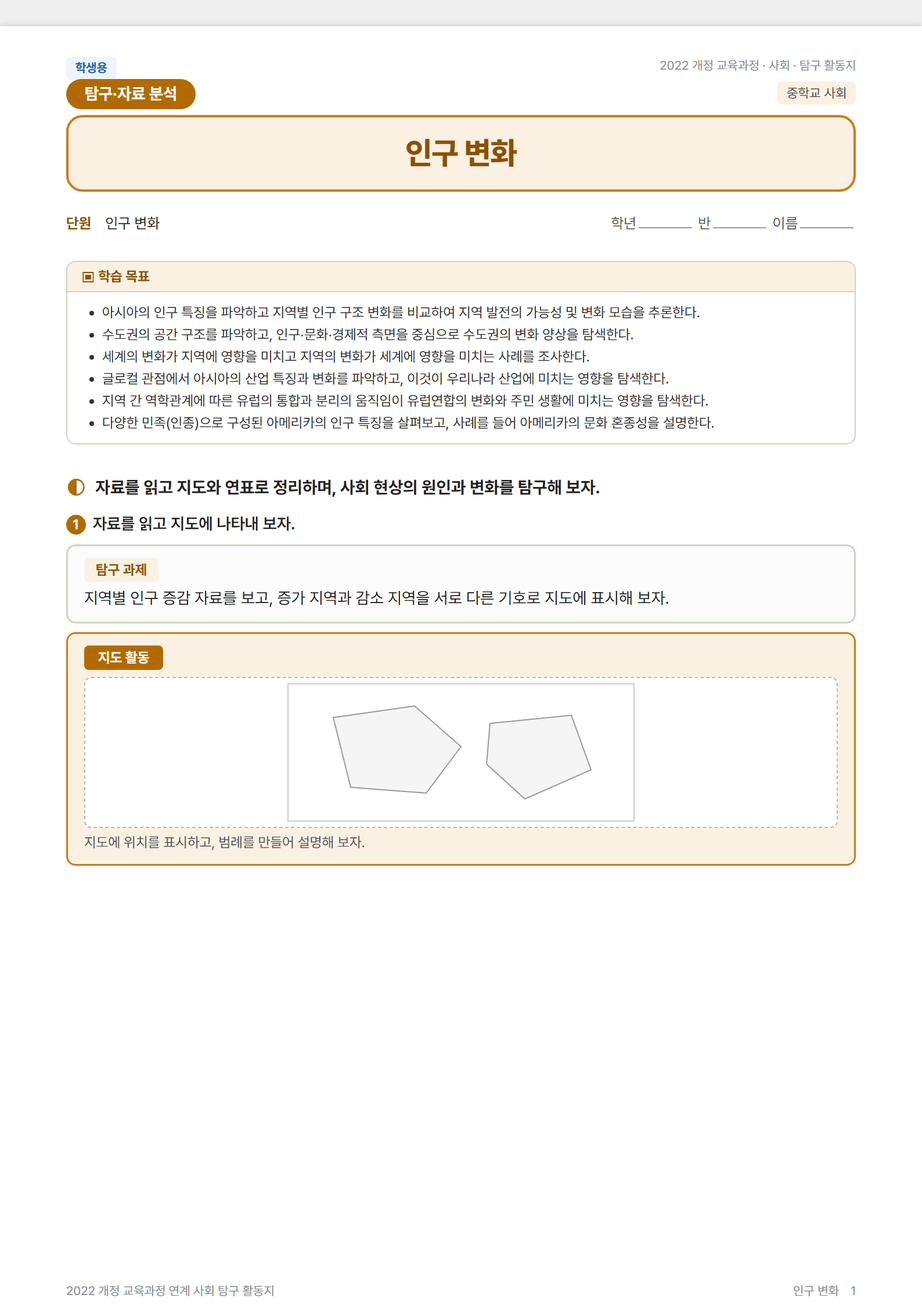
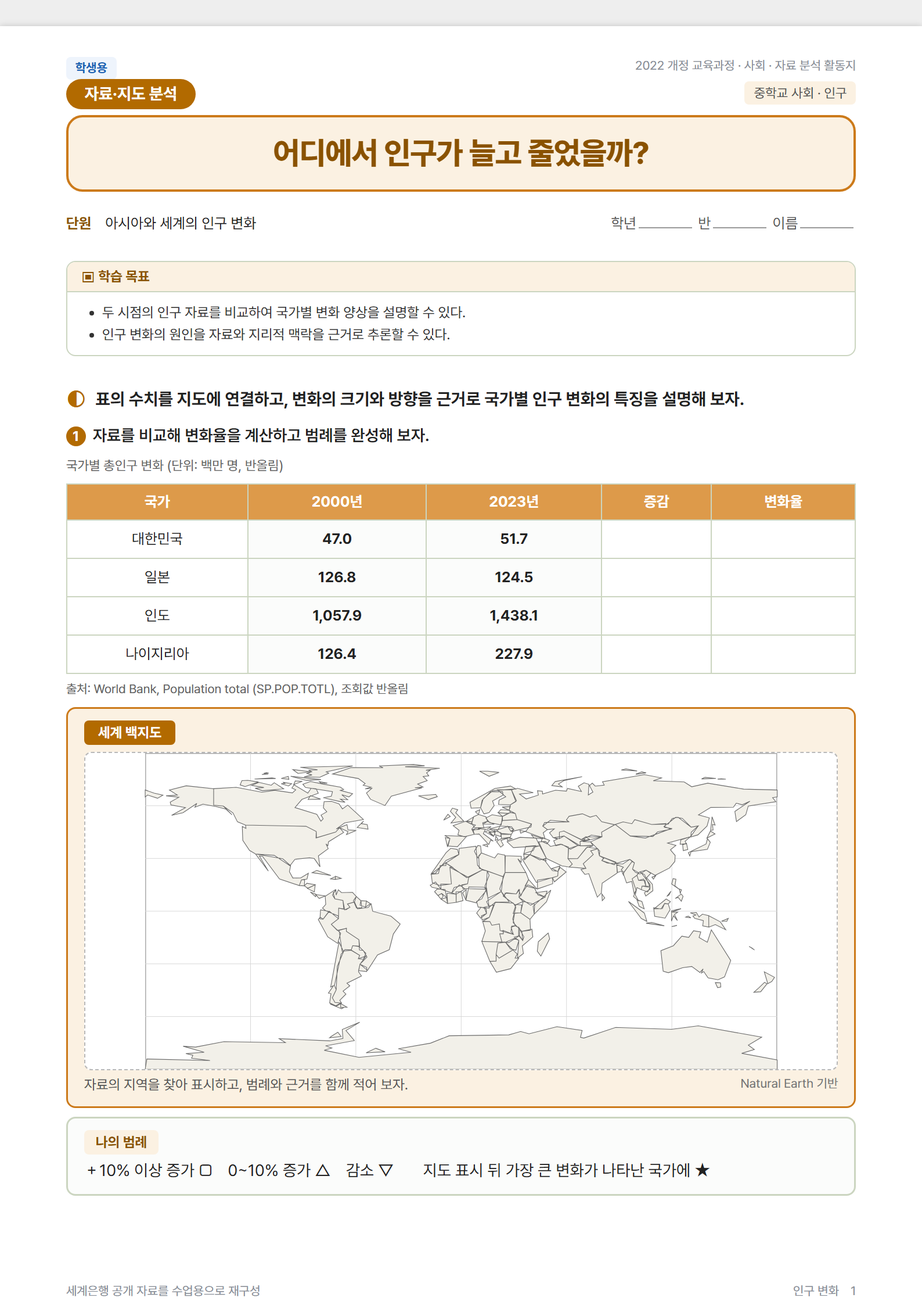
fix: README 활동지 예시와 사용자 진입 품질 개선

diff --git a/blocks/pack-social/map.html b/blocks/pack-social/map.html
@@ -1,11 +1,14 @@
 <div class="mapbox">
-    <span class="maphead">지도 활동</span>
+    <span class="maphead">세계 백지도</span>
     <div class="mapcanvas">
-      <svg width="300" height="120" viewBox="0 0 300 120" xmlns="http://www.w3.org/2000/svg">
-        <rect x="1" y="1" width="298" height="118" fill="none" stroke="#cccccc"/>
-        <path d="M40 30 L110 20 L150 55 L120 95 L55 90 Z" fill="#f5f5f5" stroke="#999999"/>
-        <path d="M175 35 L245 28 L262 75 L205 100 L172 70 Z" fill="#f5f5f5" stroke="#999999"/>
+      <svg viewBox="0 0 720 360" xmlns="http://www.w3.org/2000/svg" role="img" aria-label="국가 경계와 위경선이 표시된 세계 백지도">
+        <rect class="map-ocean" x="0.5" y="0.5" width="719" height="359"/>
+        <g class="map-graticule" aria-hidden="true">
+          <path d="M120 0V360M240 0V360M360 0V360M480 0V360M600 0V360"/>
+          <path d="M0 60H720M0 120H720M0 180H720M0 240H720M0 300H720"/>
+        </g>
+        <path class="map-land" fill-rule="evenodd" d="M427.8,181.9L438.4,189.4L439,201.8L429.1,203L419.2,193L420.8,182.3L427.8,181.9ZM342.7,124.7L342.6,128.2L336.1,128.1L334.1,137.3L325.9,138L342.7,124.7ZM114.3,82L105.1,78.3L100,68.2L89,60.4L78,59.4L78,40.6L103.7,39L133,44.6L147.7,42.4L167.7,45.4L171.5,41.9L167.1,39.8L169.6,36.2L185.3,45.6L189,40.2L194.8,40.7L197.2,45.8L178.6,52.8L170.6,62.1L195.5,69.7L200.2,77.6L202.8,74.9L200.3,70.7L206.9,66.9L203,62.4L203.8,55.4L212.3,55.1L220.8,57.9L224.7,63.6L230.8,59.3L248.6,75.7L227.2,79.5L217.8,86.4L229.9,81.5L231.1,87.5L240.4,88.2L229.3,92.9L231.1,89.4L221.5,85.1L217,90L195.1,96.6L194.9,89.3L183.2,83.4L114.3,82ZM200.4,34.4L198.3,32.6L207.5,34.3L200.4,34.4ZM183.7,31.2L165.8,26.5L200.3,30.2L183.7,31.2ZM137.5,23.7L140.3,24L132.9,24.5L137.5,23.7ZM138.1,22.4L140.7,22.8L134.9,23.2L138.1,22.4ZM248.8,77.4L246.4,80.4L253,81.5L253.9,86.7L241.5,84.8L248.8,77.4ZM192.2,49.8L199.8,52.5L185.6,52.9L188.2,48.5L192.2,49.8ZM202.5,35.3L222.4,38.9L226.1,41.6L222.4,42.6L236.3,46.3L232.2,50L224,47.5L230.7,53.2L222.4,52.5L227.7,56.1L222.2,55.3L202.9,50.9L212.1,49.1L213.4,43.9L182.6,39.2L179.6,35.5L188.3,32.4L202.5,35.3ZM171,31.7L179,32.3L169.2,35.9L171,31.7ZM116.9,31.1L129,33L113.8,38.2L108.1,36.3L110.2,31.4L116.9,31.1ZM144.4,28.3L148.6,29L124.6,29.6L144.4,28.3ZM147,33.8L157.8,40.8L133.4,42.9L125.3,40.1L135.2,39.3L121.2,36.9L129.6,33.4L143.6,36.7L147,33.8ZM159.1,34.6L156.9,33.3L166.9,34.9L163.3,37.5L155,35L159.1,34.6ZM163,26.6L163.7,30L155,28.9L163,26.6ZM168,18.8L188.4,21.3L174.2,23.3L168,18.8ZM176.8,16.2L236.3,14.7L206.2,21.4L209.2,22.9L198.9,27.6L181,27.1L190,24.9L184.1,23.3L189.8,21.3L186.1,19.5L196.3,19.1L176.8,16.2ZM114.3,82L183.2,83.4L194.9,89.3L194.6,96.6L217,90L221.5,85.1L226.1,90.4L208.9,101L208.1,105.6L206,103.5L208.5,108.9L197.3,117.1L199.2,129.6L192.6,120.1L187.2,119.2L170.6,121L164.9,128.3L147,116.5L125.7,114.9L118.8,110.8L111.2,99.4L110.6,83.6L114.8,85.8L114.3,82ZM78,40.6L78,59.4L89,60.4L98.9,70.4L91.8,63.8L80.3,60.9L65.8,58.2L56.6,61.7L58.8,57.4L43.1,68L30.1,70.9L45.9,62.2L29.3,59L28.5,55.9L38.4,50.4L23.8,48.7L36.6,47.8L27.6,42.2L46.8,37.3L78,40.6ZM534.7,81.6L519.9,90.2L520.5,95.3L508.4,93.4L497.3,98.7L477,88.8L471.9,90L471.9,97.4L465,96.4L460.6,90.8L466.1,86.3L458.2,87.2L452.9,83.2L461.5,76.6L482.7,78.4L479.9,76.1L482.9,72L498.1,69.2L506.9,73L513.8,71L520.1,78.3L534.7,81.6ZM471.9,97.4L471.9,90L477,88.8L496.5,98.7L501.9,95.5L506.1,98.3L495.4,100.8L495.7,105.7L477.3,94.5L471.9,97.4ZM642,185.2L655.3,192.2L661.4,201.2L649.5,195.3L642.1,198.2L642,185.2ZM662.6,191.7L656.6,191.5L664.3,188.3L662.6,191.7ZM642,185.2L642.1,198.2L635.2,196.8L635.9,190.8L626,188.2L624,185.6L627.4,184.4L621,181.9L628,181.6L630.9,186.7L634.9,183.4L642,185.2ZM595.8,171.7L598,178.2L592.3,188L580.4,185.9L579.3,176L587.6,177.6L591.7,171.4L595.8,171.7ZM618.7,185.6L621.7,187.7L615.8,186.8L618.7,185.6ZM605.9,178.2L610.5,177.2L600.1,181L606.7,181.2L603,183.8L606.3,190.7L601.9,185.3L599.6,191.3L599.7,179.7L605.9,178.2ZM602.7,197.1L605.8,196.2L599.8,197.6L602.7,197.1ZM577,192.8L591.4,196.7L570.7,193.7L577,192.8ZM568.7,182.2L571.6,191.7L565.2,188.4L550.6,169L568.7,182.2ZM222.7,285.3L229.9,289.4L222.7,289.7L222.7,285.3ZM244.7,240.4L243,248.9L246.4,253.8L229.8,262.1L233.1,265.1L225.4,271.1L228.7,274.5L221.7,281.5L223.7,284.7L216.2,284L213.2,278.6L217.6,269.6L215.7,264.5L223.2,229L227.5,223.7L234.3,224.1L244.4,230.3L242.8,234.2L251.7,231.1L244.7,240.4ZM222.7,285.3L222.7,289.7L226.1,289.8L223.7,291.2L210.7,285.7L217.8,288.1L222.7,285.3ZM220.8,215.2L226,226L218.9,242.7L217.6,269.6L213.2,278.6L216.2,284L222.9,284.6L217.1,287.7L210.1,284.5L211.7,273.9L208.7,273.3L214.6,264.8L211.3,266.4L220.8,215.2ZM418.7,189L421.5,196.7L417.5,197.1L416.7,203.6L419.4,206.5L404.3,202.2L403.5,194.6L394.9,196.1L392.7,191.8L384.4,191.6L392,187.1L398.9,169.9L419.4,170.8L422.3,175.6L418.7,189ZM443.2,183.4L442,174.4L462.2,156L457.2,169.3L443.2,183.4ZM438.4,189.4L427.8,181.9L430.6,169L443.7,172.2L443.2,183.4L438.4,189.4ZM409.1,163.5L403.9,154.8L410,136L433.7,136L436.8,144L427.9,162.6L425.5,155.5L422.7,160.4L410.1,159.5L409.1,163.5ZM407.7,140.8L405.7,157.7L390.6,165.2L387.1,151.3L391.8,139.2L389.7,134.3L407.7,140.8ZM216.6,140.6L216.6,143.9L211.1,143.3L216.6,140.6ZM216.6,143.9L216.8,140.2L223.4,142.8L216.6,143.9ZM458.2,87.2L453.4,90.8L455.6,97.7L433.4,89.5L440.1,80.8L423.6,75.8L421.7,68.9L414.6,65.1L416.1,59L423,54.3L417.2,41.9L424.3,40.2L442.1,45.1L426.4,46.7L434,52.3L447.9,47.9L446.9,42.9L452.5,43.5L452.7,46.7L467.4,42.3L479.9,43.4L481.1,40.3L497,43.8L493.4,37.9L499.9,33.9L505.6,35.6L504.8,47.7L510.1,44.5L506.2,37.1L509.3,34.3L512.7,37.7L523,36.5L521,32.7L568.7,24.6L588.3,28.3L578.8,31.6L614,32.9L622.6,38.4L640.9,34.3L681.9,41.1L720,42.1L720,50L714.8,50.8L718.5,55.4L687.1,60.3L684.2,70.3L673.6,78L671.8,66.5L688.9,54.9L680.2,58.9L673.4,57.1L670.1,61.7L644.4,61.9L630.3,70.5L642.7,73.8L640.1,83.1L629.7,93.2L621.6,95.6L622.1,90.1L630.1,83L622,84.4L607.1,73.1L600.4,74.5L595.8,81L577,81.4L557.7,75.9L554.5,80.5L544.5,78.4L534.7,81.6L520.1,78.3L513.8,71L506.9,73L498.1,69.2L482.9,72L479.9,76.1L482.7,78.4L455.1,79.1L452.9,83.2L458.2,87.2ZM547.6,18L560.4,20.4L542.4,19.3L547.6,18ZM565.7,21.4L570.7,22.6L558.9,24.2L565.7,21.4ZM637.7,27.7L650.2,28.9L633.9,29.5L637.7,27.7ZM656.4,29.3L661.5,29.8L652.2,29.7L656.4,29.3ZM467,32.5L497.7,26.9L477,31.4L470.8,35.3L475.1,38.6L463.2,37.1L467,32.5ZM645.8,72.6L649.3,82L646.3,81.4L647,87.7L644.2,88.1L645.8,72.6ZM10.1,45.6L20.2,48L14.1,51.5L2.6,47.8L0,50L0,42.1L10.1,45.6ZM426.9,88.1L433.1,89.1L427.8,91.3L426.9,88.1ZM390.3,20.7L403.1,22.1L391.8,26.5L380.9,20.7L390.3,20.7ZM422.2,40.9L396,42.9L385.2,51.9L382.1,62.3L371.3,62.8L370,56.1L398.4,40.4L416.3,37.6L422.2,40.9ZM266.5,14.7L305.8,13L318.3,14.5L296.2,15.6L335.6,17.4L319.9,19.6L324.5,19.7L320.6,22.5L323.1,26L316.6,26.7L321.3,31.4L310.4,35.3L316.5,38.7L307.3,39.5L315.3,39.7L280.4,49.1L273.2,59.8L256.7,52.7L252.1,45.6L258.3,40.1L250.6,40.8L257.2,38.9L248.3,36.7L250.6,34.8L242.8,29L213.4,23.9L234.7,16.5L271,16.7L266.5,14.7ZM392.7,237.2L399.8,236.9L399.8,229.5L403.2,233.5L418.9,224.2L423.9,228.7L421.4,233.5L425.7,233.5L416.4,245.5L400.1,249.6L392.7,237.2ZM125.7,114.9L156.7,120.4L165.7,128.3L164.3,135.1L168.2,142.3L177.2,142.2L185.9,136.9L184.3,143.5L178,144.4L175.5,150.9L153,143.4L133.7,117.7L130.1,117.2L140.3,134.4L125.7,114.9ZM244.7,240.4L252.4,244.1L252.4,248.8L243.1,247.8L244.7,240.4ZM253.3,247.5L244.7,240.4L252.7,232.2L248.4,224.7L244.1,224.2L243.5,212.6L229.2,203.1L229.3,199.5L218.9,202L212,195L220.2,188.6L220.4,176.6L228.9,178.4L233.3,175.6L230.4,171.9L238.5,169.6L241.9,177.4L254.1,175.8L257.4,171.6L259.2,180.2L280,185.7L290.5,194.7L282.7,206.1L278.1,223.9L264.7,229.8L253.3,247.5ZM220.9,201.9L229.3,199.5L229.2,203.1L243.5,212.6L244.3,219.9L236.4,219.3L234.6,224.5L224.3,225.7L220.9,201.9ZM220.2,188.6L212,195L222.7,205.1L219.3,216.7L208,209.3L197.2,189.5L199.4,186.8L202.7,189.1L209.8,180.1L220.2,188.6ZM226.2,177.5L220.4,176.6L220.2,188.6L219.9,185.5L205.2,179.2L202,176.6L205.7,172.3L205.1,163L217.2,155.2L213.4,161.7L216.1,166L225.3,167.8L226.2,177.5ZM205.3,162.7L198.2,165.6L194.1,161L205.3,162.7ZM194.9,160.9L194.1,163.5L188.1,158.2L194.9,160.9ZM192.7,158.1L184.7,154.2L193.7,150L192.7,158.1ZM193.7,150L185.4,154L181.3,151.2L184.2,148.3L193.7,150ZM175.5,150.9L178,144.4L181.7,144.4L181.3,151.2L175.5,150.9ZM238.5,169.6L230.4,171.9L233.3,175.6L227.3,178.6L225.3,167.8L216.1,166L214.2,159.1L217.3,156.4L217.5,161.7L220.1,155.7L223.6,158.9L236.2,158.6L240.5,163.3L238.5,169.6ZM246.9,176.2L240.7,176.4L237.2,168.1L240.5,163.3L245.7,168.1L246.9,176.2ZM251,175.4L244.8,173.3L245.7,168.1L252.1,168.5L251,175.4ZM256.7,171.7L251,175.4L252.1,168.5L256.7,171.7ZM372.4,81.1L376.2,82L372.1,86.5L374.9,92.6L363.7,95.3L356.2,93.2L357.6,88L350.8,82.6L365,77.7L372.4,81.1ZM209.3,180.3L202.7,189.1L199.1,188.9L199.8,178.5L209.3,180.3ZM195.5,133.6L211.6,139.4L190.1,136.2L195.5,133.6ZM422.4,224.5L416,223L410.5,215.5L420.5,211L425.7,213.4L422.4,224.5ZM418.9,224.2L403.2,233.5L399.8,229.5L401.8,216.5L410.5,215.5L418.9,224.2ZM399.8,229.5L399.8,236.9L392.7,237.2L383.5,214.6L410.2,215.2L401.8,216.5L399.8,229.5ZM326.6,152.8L324.7,150.5L330.8,146.8L337,155.1L326.6,152.8ZM337,155.1L336.7,149.2L348.9,149L347.1,130.1L368.5,141.7L367.3,148.9L352,153.1L349.2,159.3L337,155.1ZM325.9,138L334.1,137.3L336.1,128.1L342.6,128.2L342.6,125.2L350.2,130.1L347.1,130.1L348.9,149L335.7,150.8L327.1,147.7L325.9,138ZM365.4,167.5L361.5,159.1L365.7,155.5L365.4,167.5ZM389.7,134.3L388.4,155L362,154.3L360.7,150.1L367.3,148.9L368.5,141.7L384,133.1L389.7,134.3ZM365.4,167.5L368.7,152.5L386.2,152.8L389.2,155.8L377,170.5L365.4,167.5ZM389,154.3L391.9,176.5L379.3,175.4L377.5,169L383.5,166L389,154.3ZM360,158L362.1,168.1L354.3,170L354.1,158.1L360,158ZM343.9,159.6L354.3,160.7L354.3,170L344.6,171.3L343.9,159.6ZM332.6,154.8L341.7,155.4L343.4,164.6L337.8,159.9L333.5,162.2L329.7,157.9L332.6,154.8ZM343.1,164.6L344.6,171.3L337.1,166.4L343.1,164.6ZM333.5,162.2L337.8,159.9L339.5,163.2L337.1,166.4L333.5,162.2ZM349.2,159.3L357.9,150.1L364.4,154.7L354.3,160.7L349.2,159.3ZM414.7,169.5L398.9,169.9L392,175.5L388.9,169.1L405.7,157.7L414.7,169.5ZM396.9,173L392,187.1L383.8,190.1L383,185.5L388.9,182.7L386.2,175.5L396.9,173ZM382.6,175.5L388.6,177.6L388.9,182.7L382.2,188L377.6,182.2L382.6,175.5ZM421.5,196.7L426.5,199.4L426.4,207.9L414.1,215.9L406.4,215L403.9,205.8L408,205.8L407.8,201.9L419.4,206.5L416.9,198.3L421.5,196.7ZM425.5,198.5L431.4,209.2L430.1,213.6L425.4,207.4L425.5,198.5ZM429.1,203L440.6,200.6L441.6,209.4L429.6,219.6L430.9,228.2L424.1,233.5L425.7,213.4L420.4,209.6L426.4,207.9L430.1,213.6L429.1,203ZM384.6,192.2L392.7,191.8L394.9,196.1L403.5,194.6L404.3,202.2L408,202.5L408,205.8L403.9,205.8L406.4,215L383.5,214.6L387.5,202.6L384.6,192.2ZM459.1,204.9L460.8,211.4L450.8,231.2L446.7,225.6L447.9,214.8L459.1,204.9ZM379,119.4L375,111.8L379,105.3L382.1,105.8L383,113.7L379,119.4ZM342.6,125.2L357.4,115.5L357.6,108.6L376.8,106.1L378.6,127.8L384,133.1L366.3,141.9L342.6,125.2ZM431.1,115.2L438.4,115.7L432.1,121.6L431.1,115.2ZM463.2,131.5L472.5,128.6L470,135L463.2,131.5ZM455.9,120L456.8,122.9L453.1,121.8L455.9,120ZM438.4,115.7L442.6,107.3L449.5,105.7L457.1,120.1L449.4,121.6L438.4,115.7ZM470.4,134.6L472.8,130.2L479.6,135.4L466.2,146.7L464,142L470,140L470.4,134.6ZM565.2,155.6L566,151.5L575.2,152.9L572.5,158.1L565.2,155.6ZM570.4,151.5L566,151.5L565.2,155.6L560.2,153.2L558.4,161.5L562.3,168.6L556.3,163.3L559.2,156.2L554.8,143.1L560.2,139.2L562.1,145L569.4,145.1L570.4,151.5ZM574.8,151.6L570.4,151.5L567.9,143.5L562.1,145L560.2,139.2L563.3,135.4L568.9,138.5L574.8,151.6ZM560.2,139.2L554.8,143.1L559.2,156.2L557.1,160.1L554.3,146.1L548.4,147.9L544.6,137L554.7,123.5L557.4,125L555.2,132.2L562.3,136.3L560.2,139.2ZM568.7,159L575,155.3L575.1,149.6L564.3,135.1L570.7,133.3L576.1,136.9L571.3,141.9L577.8,149.4L578.4,156.7L570.3,162.8L568.7,159ZM621.6,95.6L621.6,95.6L621.6,95.6L621.6,95.6ZM621.3,95.2L615.1,100.5L616.4,103.3L609.4,103.8L610.2,98.9L621.3,95.2ZM612.3,104.5L616.7,102.8L618.2,109.8L613,111.2L612.3,104.5ZM535.5,81.4L544.5,78.4L554.5,80.5L557.7,75.9L577,81.4L593.4,80.2L591.5,84.5L599.5,85.9L569.9,96.8L552.7,94.5L535.5,81.4ZM554.7,123.5L545.3,135.9L542.3,133L544.8,130L537.1,127.1L537.8,136.6L520.6,148.2L519.7,159.3L515.1,164.1L505.3,137.3L500.9,138.2L496.4,132.6L502.1,131.3L499,126.1L510.5,115.5L507.5,111.4L515.7,109L517.5,117L522.2,119.6L520.2,122.4L526.6,125.3L544.1,126.3L552.2,121.1L554.7,123.5ZM545.3,135.9L544.7,138.7L542.8,134.5L538.1,135.9L537.1,127.1L544.8,130L542.3,133L545.3,135.9ZM536.2,124.2L534.5,127.2L520.2,122.4L523.1,119.2L536.2,124.2ZM515.7,109L507.5,111.4L510.5,115.5L499,126.1L502.1,131.3L483,129.8L486.6,126.5L481.7,120.3L492.7,120.2L503.7,107L515.7,109ZM493,105.3L510.3,105.7L502.5,107.9L492.7,120.2L481.7,120.3L482.4,108.7L493,105.3ZM495.7,105.7L495.4,100.8L501.3,98.1L498.9,100.9L507.4,101.1L510,105.2L495.7,105.7ZM501.9,95.5L520.5,95.3L498.9,100.9L506.1,98.3L501.9,95.5ZM465,96.4L477.3,94.5L493,105.3L484.5,109.5L474.7,103.9L467.8,105.6L465.4,99.9L469.5,98.1L465,96.4ZM457.1,120.1L448.2,101.1L456.1,100.8L461.7,106.3L473.2,103.8L482.2,107L481.7,120.3L486.6,126.5L483,129.8L474.8,128.5L457.1,120.1ZM431.4,114.6L433.5,106.4L444.7,105.5L442,111.2L431.4,114.6ZM382.1,62.3L383.9,53.7L393.5,44L407.1,44.1L407.8,48L395.7,54.5L397.6,59.8L391.8,67.8L385.9,69.3L382.1,62.3ZM416.4,67.7L421.7,68.9L423.6,75.8L407.1,76.8L407,72.2L416.4,67.7ZM423.6,75.8L440.1,80.8L439.5,84.2L417.4,89.4L420,87.2L417.3,83.8L404.2,83.2L407.1,76.8L423.6,75.8ZM407,72.2L405.6,81.9L392.4,79.2L388.1,74L395.2,70.3L407,72.2ZM394,83.8L389.3,87.1L379,85.8L394,83.8ZM404.2,83.2L402,87.4L392.4,86.3L404.2,83.2ZM413.2,83.6L420,87.2L416.5,89L413.2,83.6ZM416.5,89L419.2,89.4L417.1,92.6L405.9,92.4L400.4,87.7L413.2,83.6L416.5,89ZM413,68.8L407,72.2L402.1,67.9L413,68.8ZM414.6,65.1L416.4,67.7L413,68.8L402.1,67.9L405,64.5L414.6,65.1ZM416,61L414.6,65.1L406.7,61.6L416,61ZM388.2,72.5L390,77.8L384.5,79.5L385.9,85.1L374.9,84.8L372.1,79.7L374.2,72.6L379.8,70L388.2,72.5ZM405.3,91.5L417.1,92.6L416,96L405.9,97.3L405.3,91.5ZM405.9,97.3L413.2,96.9L405.3,99.5L408.1,104.7L405,107.2L400.3,100.8L405.9,97.3ZM449.5,105.7L419.4,107.7L412.3,101.1L427,96L445.2,96.8L449.5,105.7ZM412.2,96.3L418,97.4L412.7,99.7L412.2,96.3ZM402,98.3L398.8,99.5L399.5,94.6L402,98.3ZM393.1,87L398.8,89.5L391.5,90.4L396.9,95L387.3,89.7L393.1,87ZM379.2,84.9L380.7,87L372,87.5L379.2,84.9ZM372.3,78.4L371.3,80.9L365,77.7L372.3,78.4ZM373.8,73L372.3,78.4L366.6,77.3L373.8,73ZM341.9,96.2L347.2,97.2L344.3,106.3L341.9,96.2ZM345.1,105.8L347.2,97.2L341.2,93.9L366,95.1L355.7,106.7L345.1,105.8ZM347.6,72.3L340,76.4L344.9,69.7L347.6,72.3ZM691.6,222.2L694.2,224.3L688.1,220.2L691.6,222.2ZM713.8,260.1L709.3,262.6L705.3,249.1L717,255.4L713.8,260.1ZM699.3,267.1L705.6,261L708.5,262.7L701.2,271.8L693.4,272.4L699.3,267.1ZM655.4,261.6L655.8,266.4L652.1,267.1L649.5,261.4L655.4,261.6ZM612.3,244.4L596,250.1L590.1,248.4L587.5,225L601.7,219.4L611.4,208.5L619.2,209.9L624.7,202.3L633,203.7L631,210L640.4,215.4L645,201.3L667.1,236.2L660,254.9L652.6,258.1L641.3,256L636.4,248.8L633.7,250.5L635.6,245.8L632,249.8L622.7,243L612.3,244.4ZM523.6,165L520.7,168.1L520.3,160.4L523.6,165ZM579,143.6L577.3,141.3L581.6,139.8L579,143.6ZM520.5,95.3L519.9,90.2L535.5,81.4L552.7,94.5L578.5,95L583.7,89.8L599.3,86.6L591,83.7L604.5,73.1L611.9,74.4L622,84.4L630.1,83L621.3,95.2L595.1,102.5L604.7,105.1L598.3,110.2L603.8,116.6L603.4,123.5L597.3,130.9L580.9,139.3L570.7,133.3L563.6,137.7L558.5,135.8L555.2,132.2L557.4,125L552.2,121.1L537.6,125.4L517.5,117L517.8,111.4L507.4,101.1L520.5,95.3ZM380.9,86.2L387.6,87L385.2,91.8L396.6,100.4L393.7,99.1L391.4,104.2L380.4,92.2L374.9,92.6L373.7,88L380.9,86.2ZM389.5,103.7L390.2,106.8L384.9,104.8L389.5,103.7ZM379.8,70L376.2,66.9L381.2,64.5L379.8,70ZM353.8,73.2L347.7,66.4L350,62.7L356.1,64.6L353.8,68.1L362.9,77.4L348.4,79.7L353.8,73.2ZM331,47.1L332.8,49.7L322.7,53L311.3,48.8L331,47.1ZM452.8,96.3L460.8,99.5L457.8,103.4L451.2,100.2L452.8,96.3ZM439.9,93.1L453.3,97.6L443.1,96.9L439.9,93.1ZM612.8,163.2L610.8,168.8L607.2,164.3L603.8,165.6L610.8,160.5L612.8,163.2ZM597,161.4L594.3,163.3L599,157.3L597,161.4ZM604.7,143.6L603.5,151.3L608.2,154.9L599.8,149.2L601.4,143L604.7,143.6ZM611,155.7L609.6,159.7L608.5,154.9L611,155.7ZM560.2,167.1L565.9,169L568.5,177.4L562.8,174.5L560.2,167.1ZM595.8,171.7L591.7,171.4L589.2,177.1L579.7,177.3L593.5,166.2L598.4,169.2L595.8,171.7ZM417.2,41.9L422.3,55.3L416.1,59L402.6,58.6L403.1,53.6L410.8,49.8L401.3,41.8L417.2,41.9ZM390,77.8L397.7,81L385,80.9L390,77.8ZM432.9,151.2L436.8,144L446.2,154.6L432.9,151.2ZM643.8,101.6L640.5,109.7L622,112.2L620.4,117.2L618.8,113.4L638.9,103.6L640.6,97.6L643.8,101.6ZM649.2,92.1L639.9,96.9L643.9,88.9L649.2,92.1ZM243.7,220.4L251.4,228L248.6,234.8L242.8,234.2L244.4,230.3L234.6,224.5L236.4,219.3L243.7,220.4ZM464,142L464.3,148.8L447,154.7L446.8,144.8L464,142ZM429.9,121.3L438.4,115.7L454.9,122L464,134L470.4,134.6L470,140L445.6,147.3L429.9,121.3ZM262.7,336.1L273.3,340.1L251.7,341.3L262.7,336.1ZM212.2,322.5L219.5,317.8L223.3,322.8L210.1,324.1L212.2,322.5ZM720,349.4L720,360L0,360L1.9,348.3L73.8,350.1L52.8,347.4L54.3,344.1L46.3,342.2L67.2,340.7L43.3,333.8L57.3,334.8L89.6,328.6L159.8,329.7L152.6,325.2L210.2,327.7L225.3,325L224.5,314.7L244.4,306.5L228.7,315.9L238.3,327.4L205.5,333.4L212.7,335.8L204,338.4L243.6,346.4L302.9,340.7L288.4,336.7L325,330.3L346.3,321.9L414.2,320.9L427.7,317L437.3,319.6L469.1,311.6L497.8,315.9L495.9,323.7L499.7,324.5L536,312.4L599.7,314.5L630.1,310.6L702.4,323.4L687.1,332.5L694,337.5L679.6,341.9L720,349.4ZM355.7,109.7L357.4,115.5L342.7,122.3L330.5,137L326,137.2L342.7,113.5L348.1,108.5L355.7,109.7ZM433.7,136L410,136L410.3,116.9L428.5,117.6L428.3,124.4L424.6,120.5L433.7,136ZM410,136L407.7,140.8L380.6,131.2L379.9,117.2L383,113.7L398.2,119.5L401.7,114.6L409.8,116.2L410,136ZM455.6,164L439.1,173.2L425.9,164.4L435.8,150.1L443.2,153.1L447.4,161.6L455.6,164ZM457.9,157.2L455.6,164L445.1,158.9L457.9,157.2ZM427.8,181.9L419.2,182.7L422.5,172.4L429,172.9L427.8,181.9ZM397.1,94.7L391.9,89.5L398.7,90.3L397.1,94.7ZM397.7,88.2L405.4,90.8L405.1,95.1L398.4,93L397.7,88.2ZM421.7,173L407.8,162.8L411.6,159.2L422.7,160.4L426.4,155.6L425.9,164.4L430.6,169L421.7,173Z"/>
       </svg>
     </div>
-    <div class="mapcap">지도에 위치를 표시하고, 범례를 만들어 설명해 보자.</div>
+    <div class="mapcap">자료의 지역을 찾아 표시하고, 범례와 근거를 함께 적어 보자. <span class="map-source">Natural Earth 기반</span></div>
   </div>

diff --git a/test/unit/assemble.test.js b/test/unit/assemble.test.js
@@ -61,3 +61,21 @@ test('성취기준 원문은 커리큘럼 포트로 주입된다(CSV/MCP 조회,
   assert.match(html, /원문\(\[12독작01-01\]\)/, '표준 라벨이 주입된 원문을 사용');
   assert.match(html, /data-mode="MODE_TOKEN"/, '조립 산출은 MODE_TOKEN 을 유지(2벌 치환 전)');
 });
+
+test('파라메트릭 시각 조직자에 저작 라벨이 반영된다', async () => {
+  const repo = new FsBlockRepository({ root: ROOT });
+  const asm = new AssembleWorksheet({ blockRepository: repo, curriculum: mockCurriculum });
+  const { html } = await asm.execute({
+    subject: 'science',
+    theme: 'sci',
+    pages: [[{
+      type: 'venn',
+      params: { circles: 3 },
+      labels: { a: '고체', b: '액체', c: '기체', common: '입자로 이루어진 물질' },
+    }]],
+  });
+
+  for (const label of ['고체', '액체', '기체', '입자로 이루어진 물질']) {
+    assert.match(html, new RegExp(label), `조직자 라벨 반영: ${label}`);
+  }
+});

diff --git a/assets/blocks.css b/assets/blocks.css
@@ -299,7 +299,12 @@ h2.sec .n { background: var(--c); color: #fff; width: 20px; height: 20px; border
   font-size: 9pt; padding: 2px 12px; border-radius: 4px; margin-bottom: 6px; }
 .mapbox .mapcanvas { background: #fff; border: 1px dashed #b9b9b9; border-radius: 6px;
   min-height: 128px; display: flex; align-items: center; justify-content: center; }
+.mapbox .mapcanvas svg { display: block; width: 100%; height: auto; max-height: 72mm; }
+.mapbox .map-ocean { fill: #fff; stroke: #aaa; }
+.mapbox .map-graticule { fill: none; stroke: #d7d7d7; stroke-width: .65; }
+.mapbox .map-land { fill: #f2f0e9; stroke: #686868; stroke-width: .55; vector-effect: non-scaling-stroke; }
 .mapbox .mapcap { font-size: 9pt; color: #555; margin-top: 4px; }
+.mapbox .map-source { float: right; color: #777; font-size: 8pt; }
 
 /* ===== 사회 특수 블록 ② 연표(타임라인) ===== */
 .timeline { margin-top: 3mm; border-top: 3px solid var(--c); padding-top: 4px; }

diff --git a/src/usecases/AssembleWorksheet.js b/src/usecases/AssembleWorksheet.js
@@ -104,7 +104,9 @@ export class AssembleWorksheet {
     let html;
     // 파라메트릭 조직자: entry.params 가 있으면 엔진이 개수대로 SVG 를 생성한다(좌표는 엔진 계산).
     // params 없으면 정적 블록(entry.file)을 쓴다 = 기존 산출 그대로(하위호환).
-    if (entry.params && ORGANIZER_GENERATORS[entry.type]) html = ORGANIZER_GENERATORS[entry.type](entry.params);
+    if (entry.params && ORGANIZER_GENERATORS[entry.type]) {
+      html = ORGANIZER_GENERATORS[entry.type](entry.params, entry.labels);
+    }
     else if (typeof entry.html === 'string') html = entry.html; // 인라인 블록(템플릿 슬롯 치환 결과)
     else if (entry.file) html = await this.repo.loadBlockHtml(entry.file);
     else throw new Error(`블록 엔트리에 file/html/gen 이 없습니다: ${JSON.stringify(entry)}`);

diff --git a/README.en.md b/README.en.md
@@ -15,15 +15,19 @@ worksheet-grab is a **local worksheet authoring, editing, and export tool for Ko
 
 > This README explains the GitHub project and installation. In the teacher distribution bundle, `CLAUDE.md` and `AGENTS.md` are the actual entry points for AI harnesses.
 
-## Clone the repository first
+## Clone the repository and create a teacher bundle
 
-The current supported installation path is to clone the GitHub repository to your computer and open that folder in an AI harness. Opening the GitHub page alone does not provide the local engine, skills, or curriculum data required to run the workflow.
+Opening the GitHub page alone does not provide the local engine, skills, or curriculum data required to run the workflow. Clone the repository, then create a teacher-facing folder with development files removed.
 
 ```bash
 git clone https://github.com/pblsketch/worksheet-grab worksheet-grab
 cd worksheet-grab
+node scripts/build-user-bundle.mjs dist/worksheet-grab-user
+cd dist/worksheet-grab-user
 node bin/worksheet-grab.js help
 ```
+
+The cloned repository root is a source-development workspace and includes tests, development documentation, and development-only AI configuration. Teachers should open only `dist/worksheet-grab-user` in an AI harness. That folder contains the runtime engine and teacher-facing skills. Developers who intend to modify the source can work from the repository root.
 
 ## Requirements
 
@@ -46,7 +50,7 @@ No `npm install` or build step is required.
 
 ## Three-minute start for teachers
 
-### 1. Open the cloned folder in your AI harness
+### 1. Open the generated teacher folder in your AI harness
 
 - Claude Code reads `CLAUDE.md` and `.claude/skills/`.
 - Codex CLI and Antigravity use `AGENTS.md` as their entry point.
@@ -80,13 +84,20 @@ The AI and teacher author the educational content. The engine assembles it withi
 
 ## Generated examples
 
-These are not mockups. Each image is the first page of a student worksheet produced by the current beta engine through **curriculum lookup → worksheet assembly → student/teacher split → answer-leak validation → Chrome rendering**. The corresponding teacher version uses the same structure with example answers added.
+These are not mockups. Each image is the first page of a student worksheet produced by the current beta engine through **curriculum lookup → worksheet assembly → student/teacher split → answer-leak validation → Chrome rendering**. The science inquiry continues for three pages; the social data-analysis and graphic-organizer worksheets each continue for two pages.
 
-| Science inquiry · Photosynthesis | Social data analysis · Population change |
+| Science inquiry · Photosynthesis (3 pages) | Social data analysis · Population change (2 pages) |
 |---|---|
 | ![Science inquiry worksheet for designing a photosynthesis experiment](docs/images/readme/science-inquiry.png) | ![Social studies data-analysis worksheet for mapping population change](docs/images/readme/social-data-map.png) |
-| **Korean reading and discussion · Claims and evidence** | **English vocabulary and communication · Expressing emotions** |
-| ![Korean language arts worksheet for reading and discussing claims and evidence](docs/images/readme/korean-argument-reading.png) | ![English worksheet for organizing vocabulary about emotions](docs/images/readme/english-emotion-vocab.png) |
+
+- Science: inquiry question → hypothesis → variable design → data table and graph → interpretation
+- Social studies: real world map and public population data → rate calculation → map legend → causal fishbone
+
+### Graphic organizer · States of matter (2 pages)
+
+![Graphic-organizer worksheet comparing solids liquids and gases in a three-circle Venn diagram](docs/images/readme/visual-organizer-states.png)
+
+The three-circle Venn diagram on page one is followed by a six-node concept map and a four-step flowchart on page two. The engine owns shape geometry and coordinates; the teacher or AI harness supplies topic labels and activity instructions.
 
 ## AI harness status
 

diff --git a/README.md b/README.md
@@ -16,15 +16,19 @@ Claude Code, Codex CLI 같은 AI 하네스가 교사의 요청을 해석하고, 
 
 > 이 README는 GitHub에서 설치하고 기능을 파악하기 위한 문서입니다. 교사용 배포 번들에서는 `CLAUDE.md`와 `AGENTS.md`가 AI 하네스의 실제 진입 문서입니다.
 
-## 먼저 저장소를 클론하세요
+## 먼저 저장소를 클론하고 교사용 폴더를 만드세요
 
-현재 공식 사용 경로는 GitHub 저장소를 로컬 컴퓨터에 클론한 뒤, 그 폴더를 AI 하네스에서 여는 방식입니다. GitHub 웹페이지만 열어 둔 상태에서는 엔진·스킬·성취기준 데이터를 실행할 수 없습니다.
+GitHub 웹페이지만 열어 둔 상태에서는 엔진·스킬·성취기준 데이터를 실행할 수 없습니다. 먼저 저장소를 클론한 뒤, 개발 파일이 빠진 교사용 폴더를 한 번 만드세요.
 
 ```bash
 git clone https://github.com/pblsketch/worksheet-grab worksheet-grab
 cd worksheet-grab
+node scripts/build-user-bundle.mjs dist/worksheet-grab-user
+cd dist/worksheet-grab-user
 node bin/worksheet-grab.js help
 ```
+
+클론한 저장소 루트는 소스 개발 공간이라 `test/`, 개발 문서, 개발용 AI 설정을 포함합니다. 교사는 `dist/worksheet-grab-user`만 AI 하네스에서 여세요. 이 폴더에는 실행 엔진과 교사용 스킬만 들어갑니다. 소스 코드를 고치려는 개발자는 저장소 루트를 그대로 사용하면 됩니다.
 
 ## 준비물
 
@@ -47,7 +51,7 @@ git --version
 
 ## 교사용 3분 시작
 
-### 1. 클론한 폴더를 AI 하네스에서 열기
+### 1. 생성한 교사용 폴더를 AI 하네스에서 열기
 
 - Claude Code는 `CLAUDE.md`와 `.claude/skills/`를 읽습니다.
 - Codex CLI와 Antigravity는 `AGENTS.md`를 시작점으로 사용합니다.
@@ -81,13 +85,20 @@ git --version
 
 ## 실제 생성 예시
 
-아래 이미지는 목업이 아니라 현재 베타 엔진으로 **성취기준 조회 → 활동지 조립 → 학생용·교사용 분리 → 정답 누출 검수 → Chrome 렌더**를 실행해 만든 학생용 첫 페이지입니다. 교사용에는 같은 문서 구조에 예시 답안이 추가됩니다.
+아래 이미지는 목업이 아니라 현재 베타 엔진으로 **성취기준 조회 → 활동지 조립 → 학생용·교사용 분리 → 정답 누출 검수 → Chrome 렌더**를 실행해 만든 학생용 첫 페이지입니다. 과학 탐구형은 3쪽, 사회 자료 분석형과 시각 조직자형은 각각 2쪽으로 이어집니다.
 
-| 과학 탐구형 · 광합성 | 사회 자료 분석형 · 인구 변화 |
+| 과학 탐구형 · 광합성 (3쪽) | 사회 자료 분석형 · 인구 변화 (2쪽) |
 |---|---|
 | ![광합성 실험을 설계하는 과학 탐구 활동지](docs/images/readme/science-inquiry.png) | ![인구 변화를 지도에 표시하는 사회 자료 분석 활동지](docs/images/readme/social-data-map.png) |
-| **국어 독서·토론형 · 주장과 근거** | **영어 어휘·의사소통형 · 감정 표현** |
-| ![주장과 근거를 읽고 토론하는 국어 활동지](docs/images/readme/korean-argument-reading.png) | ![감정 표현 어휘를 정리하는 영어 활동지](docs/images/readme/english-emotion-vocab.png) |
+
+- 과학: 탐구 문제 → 가설 → 변인 설계 → 측정표·그래프 → 결과 해석
+- 사회: 실제 세계지도와 공개 인구 자료 → 변화율 계산 → 지도 범례 → 원인 피시본
+
+### 시각 조직자형 · 물질의 상태 (2쪽)
+
+![고체 액체 기체를 3원 벤다이어그램으로 비교하는 시각 조직자 활동지](docs/images/readme/visual-organizer-states.png)
+
+첫 페이지의 3원 벤다이어그램에 이어 둘째 페이지에서 6갈래 개념지도와 4단계 흐름도로 상태 변화를 구조화합니다. 조직자의 도형과 좌표는 엔진이 만들고, 주제 라벨과 활동 지시는 교사 또는 AI 하네스가 채웁니다.
 
 ## AI 하네스 지원 상태
 
